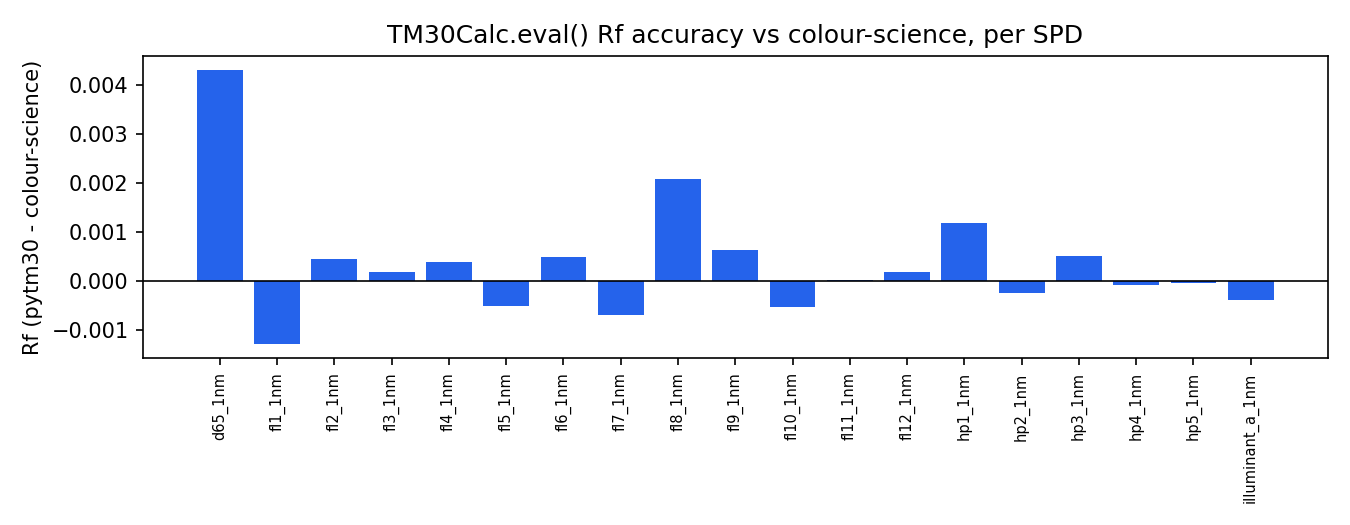
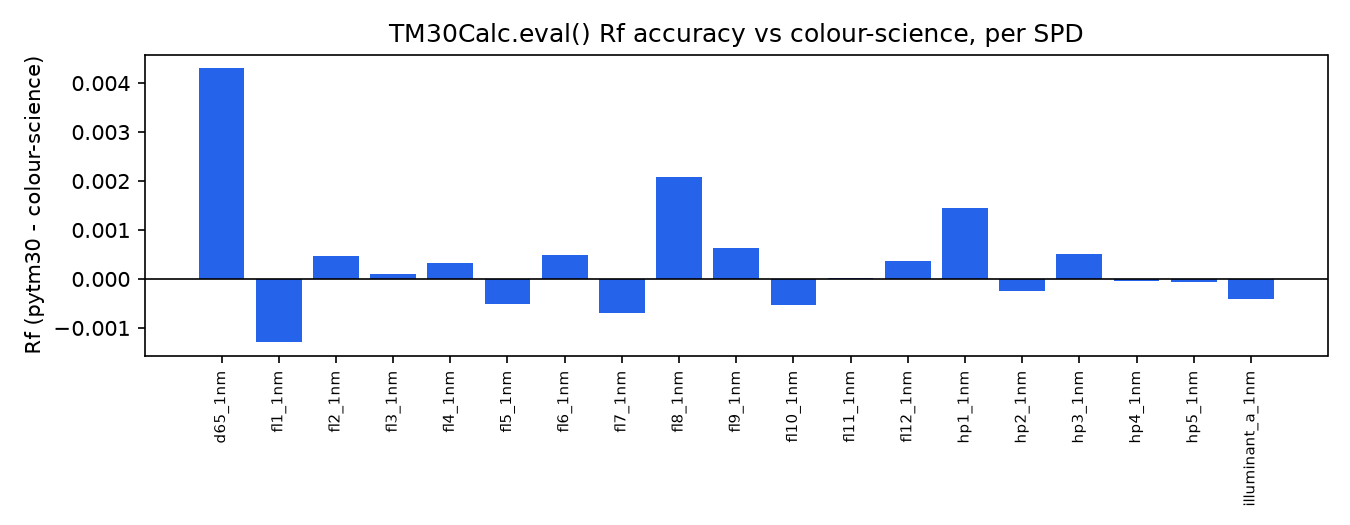
Rerun the colour-science benchmark and make its README claims self-updating
benchmarks/benchmark_tm30.py now prints a '0) ENVIRONMENT' section into
its report (date, Python, OS, CPU, macOS power mode, numpy /
colour-science / pytm30 versions) -- timings without the machine and
power state they were taken on are not comparable, and the previous
numbers were taken in low-power mode.

The script also rewrites the measured-claims block in README.md between
benchmark-results markers: speedup table, accuracy bounds, environment
line, and the timing-distribution plot. Rerunning the benchmark is now
the only way the README numbers change, so they cannot go stale or be
hand-edited out of sync with the report.

Fresh measurements (Apple M4 Pro, high power, Python 3.12.13,
numpy 2.5.2, colour-science 0.4.7): 9.6x single eval, 8.0x batch;
Rf within 0.004, Rg within 0.001, CCT within 0.07 K of colour-science.
README motivation paragraphs expanded with the batch-workload framing.

diff --git a/benchmarks/benchmark_tm30.py b/benchmarks/benchmark_tm30.py
@@ -14,6 +14,8 @@ Run from the PyTM30/ directory:
     python3 benchmarks/benchmark_tm30.py
 """
 
+import platform
+import subprocess
 import sys
 import time
 from pathlib import Path
@@ -77,9 +79,50 @@ def hist_panel(ax, data, color, xlabel, title):
 
 
 # ===================================================================
-# 1) TEST SETUP
+# 0) ENVIRONMENT -- timings are meaningless without the machine and the
+#    library versions they were taken on, and byte-level reproducibility
+#    of results is only claimed for pinned versions.
 # ===================================================================
 print("=" * 70)
+print("0) ENVIRONMENT")
+print("=" * 70)
+
+CPU_LABEL = platform.machine()
+print(f"Date (UTC):     {time.strftime('%Y-%m-%d %H:%M', time.gmtime())}")
+print(f"Python:         {platform.python_version()} ({platform.python_implementation()})")
+print(f"OS / machine:   {platform.platform()} ({platform.machine()})")
+if sys.platform == "darwin":
+    try:
+        cpu = subprocess.run(
+            ["sysctl", "-n", "machdep.cpu.brand_string"],
+            capture_output=True, text=True, timeout=5,
+        ).stdout.strip()
+        if cpu:
+            CPU_LABEL = cpu
+            print(f"CPU:            {cpu}")
+        # Timings taken in low-power mode are not comparable to normal
+        # ones; record the mode so a skewed run is recognisable later.
+        pm = subprocess.run(["pmset", "-g"], capture_output=True, text=True,
+                            timeout=5).stdout
+        for line in pm.splitlines():
+            if "powermode" in line:
+                print(f"Power mode:     {line.split()[-1]} "
+                      "(macOS pmset powermode; 1 = low power)")
+    except Exception:
+        pass  # environment report is best-effort, never fails the run
+print(f"numpy:          {np.__version__}")
+if HAVE_COLOUR:
+    print(f"colour-science: {colour.__version__}")
+try:
+    from importlib.metadata import version as _pkg_version
+    print(f"pytm30:         {_pkg_version('pytm30')}")
+except Exception:
+    print("pytm30:         (not installed as a package -- run from source tree)")
+
+# ===================================================================
+# 1) TEST SETUP
+# ===================================================================
+print("\n" + "=" * 70)
 print("1) TEST SETUP")
 print("=" * 70)
 
@@ -288,6 +331,53 @@ else:
     fig.savefig(out_path, dpi=150)
     plt.close(fig)
     print(f"\nPlot saved: {out_path}")
+
+# ===================================================================
+# 4) README SYNC -- rewrite the measured-claims block in README.md so
+#    the published numbers can never go stale: rerunning this benchmark
+#    IS the edit. Comparative claims, so only runs when colour-science
+#    was available.
+# ===================================================================
+if HAVE_COLOUR:
+    readme_path = BENCH_DIR.parent / "README.md"
+    begin = "<!-- benchmark-results:begin -->"
+    end = "<!-- benchmark-results:end -->"
+    n = len(corpus)
+    single_speedup = cs_single_ms.mean() / single_ms.mean()
+    batch_speedup = cs_batch_ms_total.mean() / batch_ms_total.mean()
+    rf_max = float(np.abs(np.asarray(deltas["Rf"])).max())
+    rg_max = float(np.abs(np.asarray(deltas["Rg"])).max())
+    cct_max = float(np.abs(np.asarray(deltas["CCT"])).max())
+    block = f"""{begin}
+<!-- Auto-written by benchmarks/benchmark_tm30.py; do not edit by hand.
+     Rerun the benchmark to refresh numbers, plot, and environment. -->
+The payoff, measured against colour-science on the bundled illuminant
+corpus (`benchmarks/benchmark_tm30.py`):
+
+| Path | colour-science | pytm30 | Speedup |
+|---|---|---|---|
+| Single eval | {cs_single_ms.mean():.3f} ms/SPD | {single_ms.mean():.3f} ms/SPD | **{single_speedup:.1f}x** |
+| Batch ({n} SPDs per call) | {cs_batch_ms_total.mean() / n:.3f} ms/SPD | {batch_ms_total.mean() / n:.3f} ms/SPD | **{batch_speedup:.1f}x** |
+
+Accuracy on the same corpus: Rf within {rf_max:.3f}, Rg within
+{rg_max:.3f}, and CCT within {cct_max:.2f} K of colour-science's own
+values.
+
+Measured on: {CPU_LABEL}, Python {platform.python_version()},
+numpy {np.__version__}, colour-science {colour.__version__} -- full
+environment and distributions in `benchmarks/benchmark_tm30_report.txt`.
+
+![Timing distributions, pytm30 vs colour-science](benchmarks/benchmark_tm30_timing.png)
+{end}"""
+    text = readme_path.read_text()
+    if begin in text and end in text:
+        pre, rest = text.split(begin, 1)
+        _, post = rest.split(end, 1)
+        readme_path.write_text(pre + block + post)
+        print(f"\nREADME measured-claims block refreshed: {readme_path}")
+    else:
+        print(f"\nREADME markers not found; claims block NOT updated. "
+              f"Add '{begin}' ... '{end}' to README.md to enable the sync.")
 
 print("\nDone.")
 print(f"Report saved: {log_path}")

diff --git a/README.md b/README.md
@@ -25,6 +25,14 @@ evaluation**. Their pipelines are geared toward one spectrum (or a modest
 handful) at a time; once you're scoring tens of thousands of SPDs, per-call
 Python overhead and repeated table resampling dominate the runtime.
 
+That ceiling matters as soon as TM-30 stops being a one-off report figure
+and becomes the inner loop of a workflow. Sweeping an LED mixing space,
+Monte-Carlo tolerancing of a design, optimising a spectrum against Rf/Rg
+targets, or scoring a large measured dataset all mean running the full
+pipeline thousands to millions of times and at that point per-SPD
+milliseconds are the difference between an interactive tool and an
+overnight job.
+
 That was exactly the workload I needed: evaluate huge batches of spectra,
 fast. So I designed a different architecture for it - a wavelength grid
 resampled and cached once instead of per call, a true contiguous-array batch
@@ -35,10 +43,27 @@ slice by slice, by AI coding agents, verifying every stage against
 colour-science (and, in the original internal version, luxpy) as an
 accuracy oracle.
 
+<!-- benchmark-results:begin -->
+<!-- Auto-written by benchmarks/benchmark_tm30.py; do not edit by hand.
+     Rerun the benchmark to refresh numbers, plot, and environment. -->
 The payoff, measured against colour-science on the bundled illuminant
-corpus (`benchmarks/benchmark_tm30.py`): pytm30 runs **~6.4x faster** on
-single-SPD evaluation and **~5x faster** in batch, with Rf/Rg/CCT/Duv within
-floating-point noise of colour-science's own values.
+corpus (`benchmarks/benchmark_tm30.py`):
+
+| Path | colour-science | pytm30 | Speedup |
+|---|---|---|---|
+| Single eval | 1.073 ms/SPD | 0.112 ms/SPD | **9.6x** |
+| Batch (19 SPDs per call) | 1.069 ms/SPD | 0.134 ms/SPD | **8.0x** |
+
+Accuracy on the same corpus: Rf within 0.004, Rg within
+0.001, and CCT within 0.07 K of colour-science's own
+values.
+
+Measured on: Apple M4 Pro, Python 3.12.13,
+numpy 2.5.2, colour-science 0.4.7 -- full
+environment and distributions in `benchmarks/benchmark_tm30_report.txt`.
+
+![Timing distributions, pytm30 vs colour-science](benchmarks/benchmark_tm30_timing.png)
+<!-- benchmark-results:end -->
 
 ---
 
@@ -49,7 +74,7 @@ floating-point noise of colour-science's own values.
   - [Contents](#contents)
   - [Quick Start (Python)](#quick-start-python)
     - [The full result set - `extras=True`](#the-full-result-set---extrastrue)
-    - [Convenience: SPD -> XYZ / Yuv](#convenience-spd--xyz--yuv)
+    - [Convenience: SPD -\> XYZ / Yuv](#convenience-spd---xyz--yuv)
     - [Configure CMF Observer](#configure-cmf-observer)
     - [Configure Integration Range](#configure-integration-range)
   - [Quick Start (C++)](#quick-start-c)
@@ -64,6 +89,7 @@ floating-point noise of colour-science's own values.
       - [Which mode should I use?](#which-mode-should-i-use)
   - [Data Files \& Provenance](#data-files--provenance)
   - [Tests](#tests)
+    - [Formatting](#formatting)
   - [Design Principles](#design-principles)
   - [Project Structure](#project-structure)
   - [Author](#author)
@@ -199,11 +225,11 @@ const auto& colorimetry = m.colorimetry_result();    // full raw result
 
 ### Prerequisites
 
-| Tool           | Version              | Notes                                                                                                                                                  |
-| -------------- | -------------------- | ------------------------------------------------------------------------------------------------------------------------------------------------------ |
+| Tool           | Version                | Notes                                                                                                                                                  |
+| -------------- | ---------------------- | ------------------------------------------------------------------------------------------------------------------------------------------------------ |
 | C++20 compiler | GCC >=11 or Clang >=14 | Includes Apple Clang on macOS. No compiler-specific extensions - should build clean under `-std=c++20` on Linux, macOS, and Windows, x86_64 and arm64. |
-| CMake          | >=3.20                | `pip install cmake` works fine if you'd rather not touch your system package manager.                                                                  |
-| Python         | >=3.10                | Only needed for the Python bindings.                                                                                                                   |
+| CMake          | >=3.20                 | `pip install cmake` works fine if you'd rather not touch your system package manager.                                                                  |
+| Python         | >=3.10                 | Only needed for the Python bindings.                                                                                                                   |
 
 > **Platform status:** the code is written to be portable (standard C++20,
 > no platform-specific extensions or intrinsics), but it has so far only
@@ -296,13 +322,13 @@ calc = TM30Calc(n_workers=4, persistent_workers=True)  # reuse threads across ca
 
 #### Which mode should I use?
 
-| Situation                                                                                   | Use                                                                                                                                                       |
-| --------------------------------------------------------------------------------------------- | ------------------------------------------------------------------------------------------------------------------------------------------------------- |
-| Single SPD, small batches, or "just give me correct numbers"                                | default `TM30Calc()` / `n_workers=1`                                                                                                                      |
-| You have a matrix and want it computed                                                      | batch `eval(matrix)` with `n_workers=1` - same per-SPD speed as looping single evals, one call instead of N                                               |
-| You're already looping per SPD (per-SPD grids, per-SPD post-processing, streaming)          | one SPD per call - no throughput penalty vs batching, but no benefit either                                                                               |
-| One-off *large* batch (a few hundred SPDs or more per call)                                 | `n_workers=4` (spawn per call) - can meaningfully speed up multi-core machines; below ~50 SPDs/call the per-call thread-spawn tax can outweigh the gain   |
-| Many repeated large-batch calls on one long-lived calculator (server loop, mass evaluation) | `n_workers=4, persistent_workers=True` - threads stay alive across calls instead of respawning each time                                                 |
+| Situation                                                                                   | Use                                                                                                                                                     |
+| ------------------------------------------------------------------------------------------- | ------------------------------------------------------------------------------------------------------------------------------------------------------- |
+| Single SPD, small batches, or "just give me correct numbers"                                | default `TM30Calc()` / `n_workers=1`                                                                                                                    |
+| You have a matrix and want it computed                                                      | batch `eval(matrix)` with `n_workers=1` - same per-SPD speed as looping single evals, one call instead of N                                             |
+| You're already looping per SPD (per-SPD grids, per-SPD post-processing, streaming)          | one SPD per call - no throughput penalty vs batching, but no benefit either                                                                             |
+| One-off *large* batch (a few hundred SPDs or more per call)                                 | `n_workers=4` (spawn per call) - can meaningfully speed up multi-core machines; below ~50 SPDs/call the per-call thread-spawn tax can outweigh the gain |
+| Many repeated large-batch calls on one long-lived calculator (server loop, mass evaluation) | `n_workers=4, persistent_workers=True` - threads stay alive across calls instead of respawning each time                                                |
 
 Rule of thumb: **single or small -> default * one big batch -> `n_workers>1` *
 repeated big batches -> try `persistent_workers=True`**. Speedups are
@@ -315,15 +341,15 @@ a multiplier.
 
 ## Data Files & Provenance
 
-| File                                                                                             | Description                                                    | Range                |
-| ------------------------------------------------------------------------------------------------ | -------------------------------------------------------------- | -------------------- |
-| `ces.csv` / `ces_5nm.csv`                                                                        | 99 CES reflectance spectra                                     | 380-780 nm           |
-| `cmf_1964_10.csv`                                                                                | CIE 1964 10-deg CMFs (default observer)                           | 360-830 nm, 1 nm     |
-| `cmf_1931_2.csv` / `cie_1931_2.csv`                                                              | CIE 1931 2-deg CMFs (general / CCT-default)                       | 360-830 / 380-780 nm |
-| `cmf_2006_2.csv` / `cmf_2006_10.csv`                                                             | CIE 2006 physiologically-based CMFs                            | 360-830 nm           |
-| `cmf_2015_2.csv` / `cmf_2015_10.csv`                                                             | CIE 2015 CMFs                                                  | 360-830 nm           |
-| `daylight_basis.csv`                                                                             | CIE daylight vectors S0, S1, S2                                | 300-830 nm, 5 nm     |
-| `planckian_uv.csv`                                                                               | Planckian locus LUT (u,v)                                      | 1000-25000 K         |
+| File                                                                                                 | Description                                                    | Range                |
+| ---------------------------------------------------------------------------------------------------- | -------------------------------------------------------------- | -------------------- |
+| `ces.csv` / `ces_5nm.csv`                                                                            | 99 CES reflectance spectra                                     | 380-780 nm           |
+| `cmf_1964_10.csv`                                                                                    | CIE 1964 10-deg CMFs (default observer)                        | 360-830 nm, 1 nm     |
+| `cmf_1931_2.csv` / `cie_1931_2.csv`                                                                  | CIE 1931 2-deg CMFs (general / CCT-default)                    | 360-830 / 380-780 nm |
+| `cmf_2006_2.csv` / `cmf_2006_10.csv`                                                                 | CIE 2006 physiologically-based CMFs                            | 360-830 nm           |
+| `cmf_2015_2.csv` / `cmf_2015_10.csv`                                                                 | CIE 2015 CMFs                                                  | 360-830 nm           |
+| `daylight_basis.csv`                                                                                 | CIE daylight vectors S0, S1, S2                                | 300-830 nm, 5 nm     |
+| `planckian_uv.csv`                                                                                   | Planckian locus LUT (u,v)                                      | 1000-25000 K         |
 | `d65_1nm.csv`, `fl1_1nm.csv`...`fl12_1nm.csv`, `hp1_1nm.csv`...`hp5_1nm.csv`, `illuminant_a_1nm.csv` | Standard illuminant/lamp spectra, used in tests and benchmarks | 380-780 nm           |
 
 All data tables are sourced from **[colour-science](https://github.com/colour-science/colour-science)**
